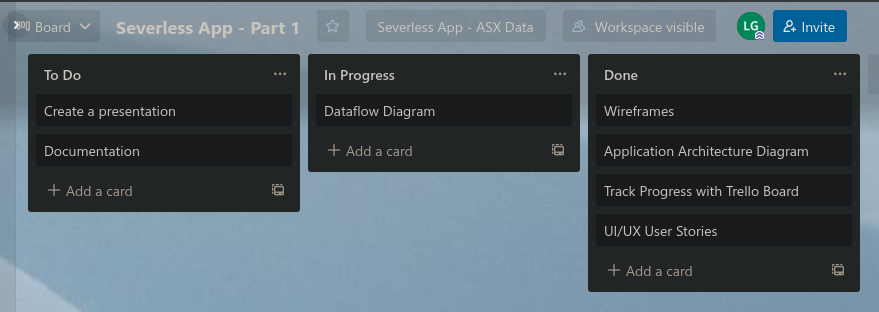
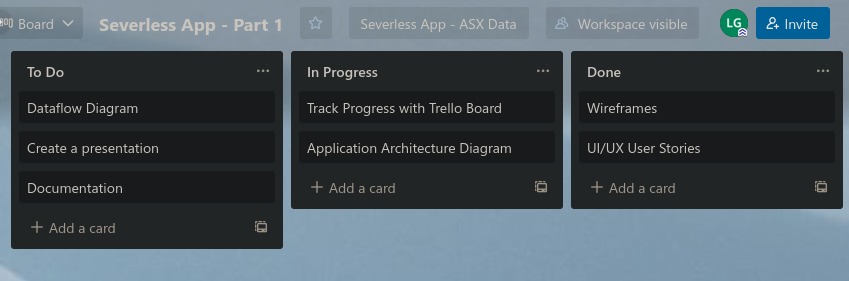
added trello board documentation and images

diff --git a/docs/trello.md b/docs/trello.md
@@ -4,22 +4,64 @@
 
 ### Update 1:
 
+Start with a blank board. 
+
 ![Update 1](../A/imgs/trello/1.png)
 
 ### Update 2:
+
+Add assignment requirements to the board: 
+
+- Dataflow Diagram
+- Application Architecture Diagram
+- Create a presentation
+- Documentation
+- Track Progress with Trello Board
+- Wirefreames 
+- UI/UX User Stories
+
+Start with writing user stories to define the requirements of the application. At the same time start drawing wireframes that incorporate the user stories - Make modifications as required. 
+
 
 ![Update 2](../A/imgs/trello/2.png)
 
 ### Update 3:
 
+User stories and wireframes have been completed.
+Started to write the application architecture diagram to describe the technology stack that will be used to build the application.
+
 ![Update 3](../A/imgs/trello/3.png)
 
 ### Update 4:
 
+The architecture diagram has been completed. Start to write the dataflow diagram to map how data utilised by the application will be used. 
+
 ![Update 4](../A/imgs/trello/4.png)
+
+### Update 5:
+
+The requirements for Part - A of the assignment have been completed. Remaining components:
+
+- Create a presentation
+- Documentation
+
+Will be completed as a part of Part B.
+
+![Update 5](../A/imgs/trello/5.png)
 
 ## Part B
 
 ### Update 1:
 
-![Update 5](../A/imgs/trello/5.png)
+Added project requirements associated with Part B:
+
+- Create Database
+- Create developer CRUD API
+- Create UI/Templates Create Query Functionality
+- Deploy the application to a cloud hosting platform
+Automate testing in the development and production environment
+- Utilise a formal testing framework
+- Use source control methodology (git)
+- Write well designed code.
+
+![Update 6](../A/imgs/trello/6.png)
